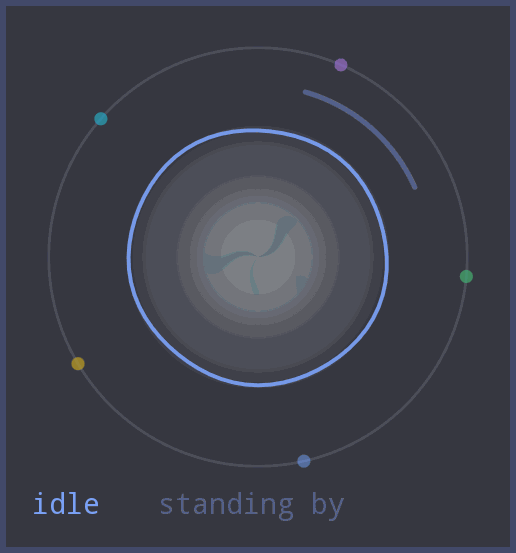
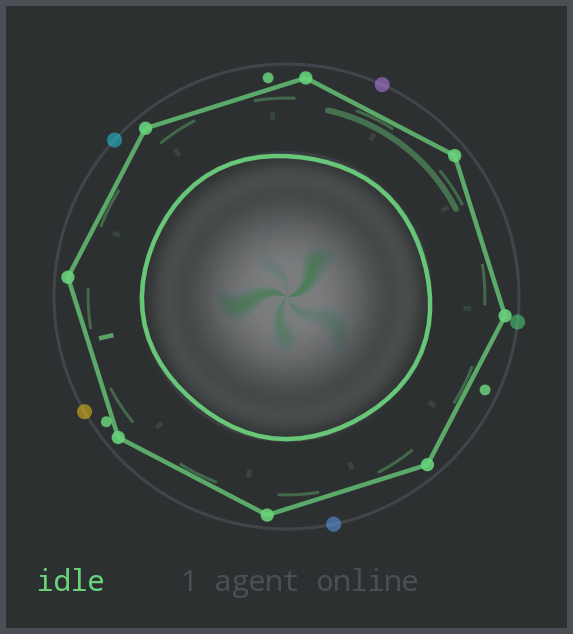
Update asphyksia/companion to 2.0: a genome per companion (#56)

diff --git a/widgets/asphyksia/companion/README.md b/widgets/asphyksia/companion/README.md
@@ -1,0 +1,60 @@
+# companion
+
+An agent core that is born different every time.
+
+The tile shows what the coding agent is doing: its voice is a polar waveform,
+its attention a radar that locks onto the tool in use. Its form, though, comes
+from a genome seeded at birth, so no two companions look alike.
+
+## Drive it
+
+```sh
+owl-send <this widget file> set detail "reading widget.owl"   # first, so it lands in the log
+owl-send <this widget file> set activity bash                 # bash read edit web think error idle
+```
+
+## Let it express itself
+
+```sh
+owl-send <this widget file> set sigil "vigilante nocturno"    # a name, shown instead of the mode
+owl-send <this widget file> set mood wild                     # calm | focused | curious | wild
+owl-send <this widget file> set genome 1760312345             # adopt a species
+```
+
+`mood` scales the tempo of every animation (0.6x to 1.7x).
+
+## The genome
+
+`genome` is seeded once, at birth, from the second of the first interaction, so
+no random command is needed and nothing extra runs. Twelve values are then drawn
+with a small linear congruential generator and decide:
+
+- the number of arms and the sides of the outer polygon (3 to 12)
+- the satellites, the direction of spin, the twist and the orbit radius
+- the tick-ring count, and the companion's own idle colour
+
+An activity overrides the colour with the usual per-tool neon, and the mix of
+tools bends the shape over time (bash opens it up, read and web twist it).
+
+## Rarity
+
+Independent rolls, all from the genome except shiny:
+
+| grade | chance | look | badge |
+|---|---|---|---|
+| ornate | 1/10 | an extra outer ring | `◇` |
+| aurora | 1/100 | the shell turns rainbow | `❋` |
+| eclipse | 1/1000 | near-black core, bright rim | `◑` |
+| shiny | 1/4096 | iridescent corona and sparkles | `✦` |
+
+Shiny derives from the birth time, not from the genome, so it stays with the
+companion: adopting someone's species code never brings a shiny along.
+
+## Sharing and growth
+
+The screen shows the species code with a **copy code** button, and an input
+adopts a code from another companion. The four evolution stages (spark, sprite,
+being, aura) arrive at 30, 120 and 400 interactions and are the same for
+everyone; only the form they express is personal.
+
+Requires `procps-ng` (for `pgrep`).
